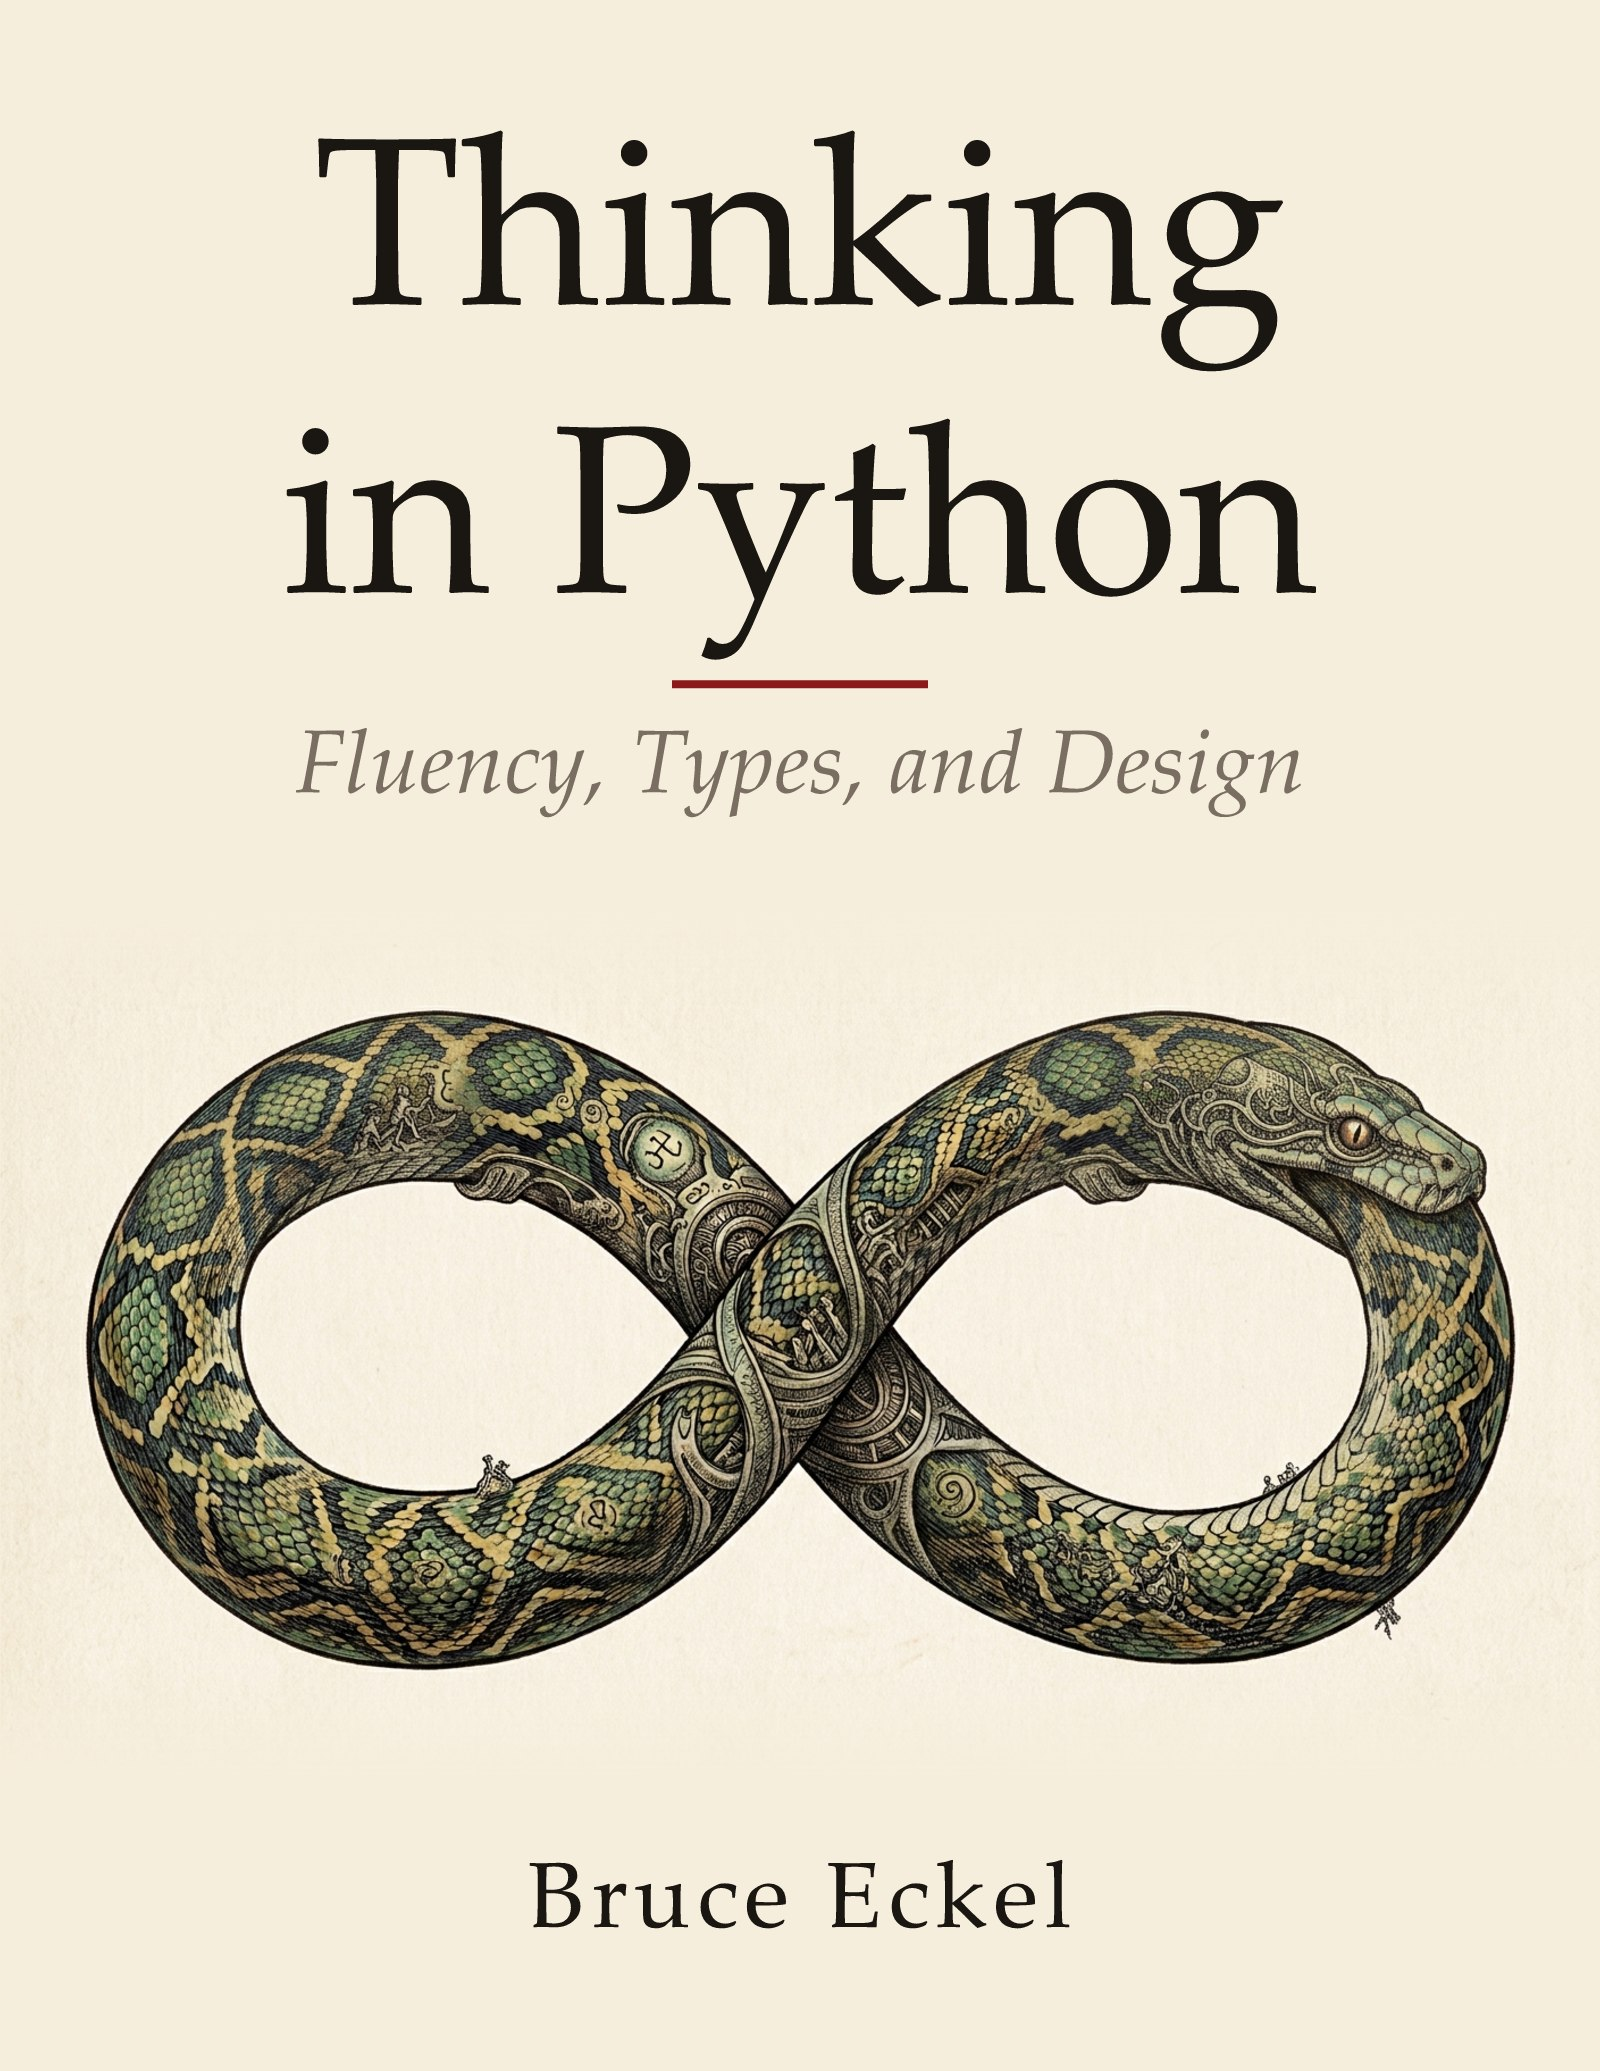
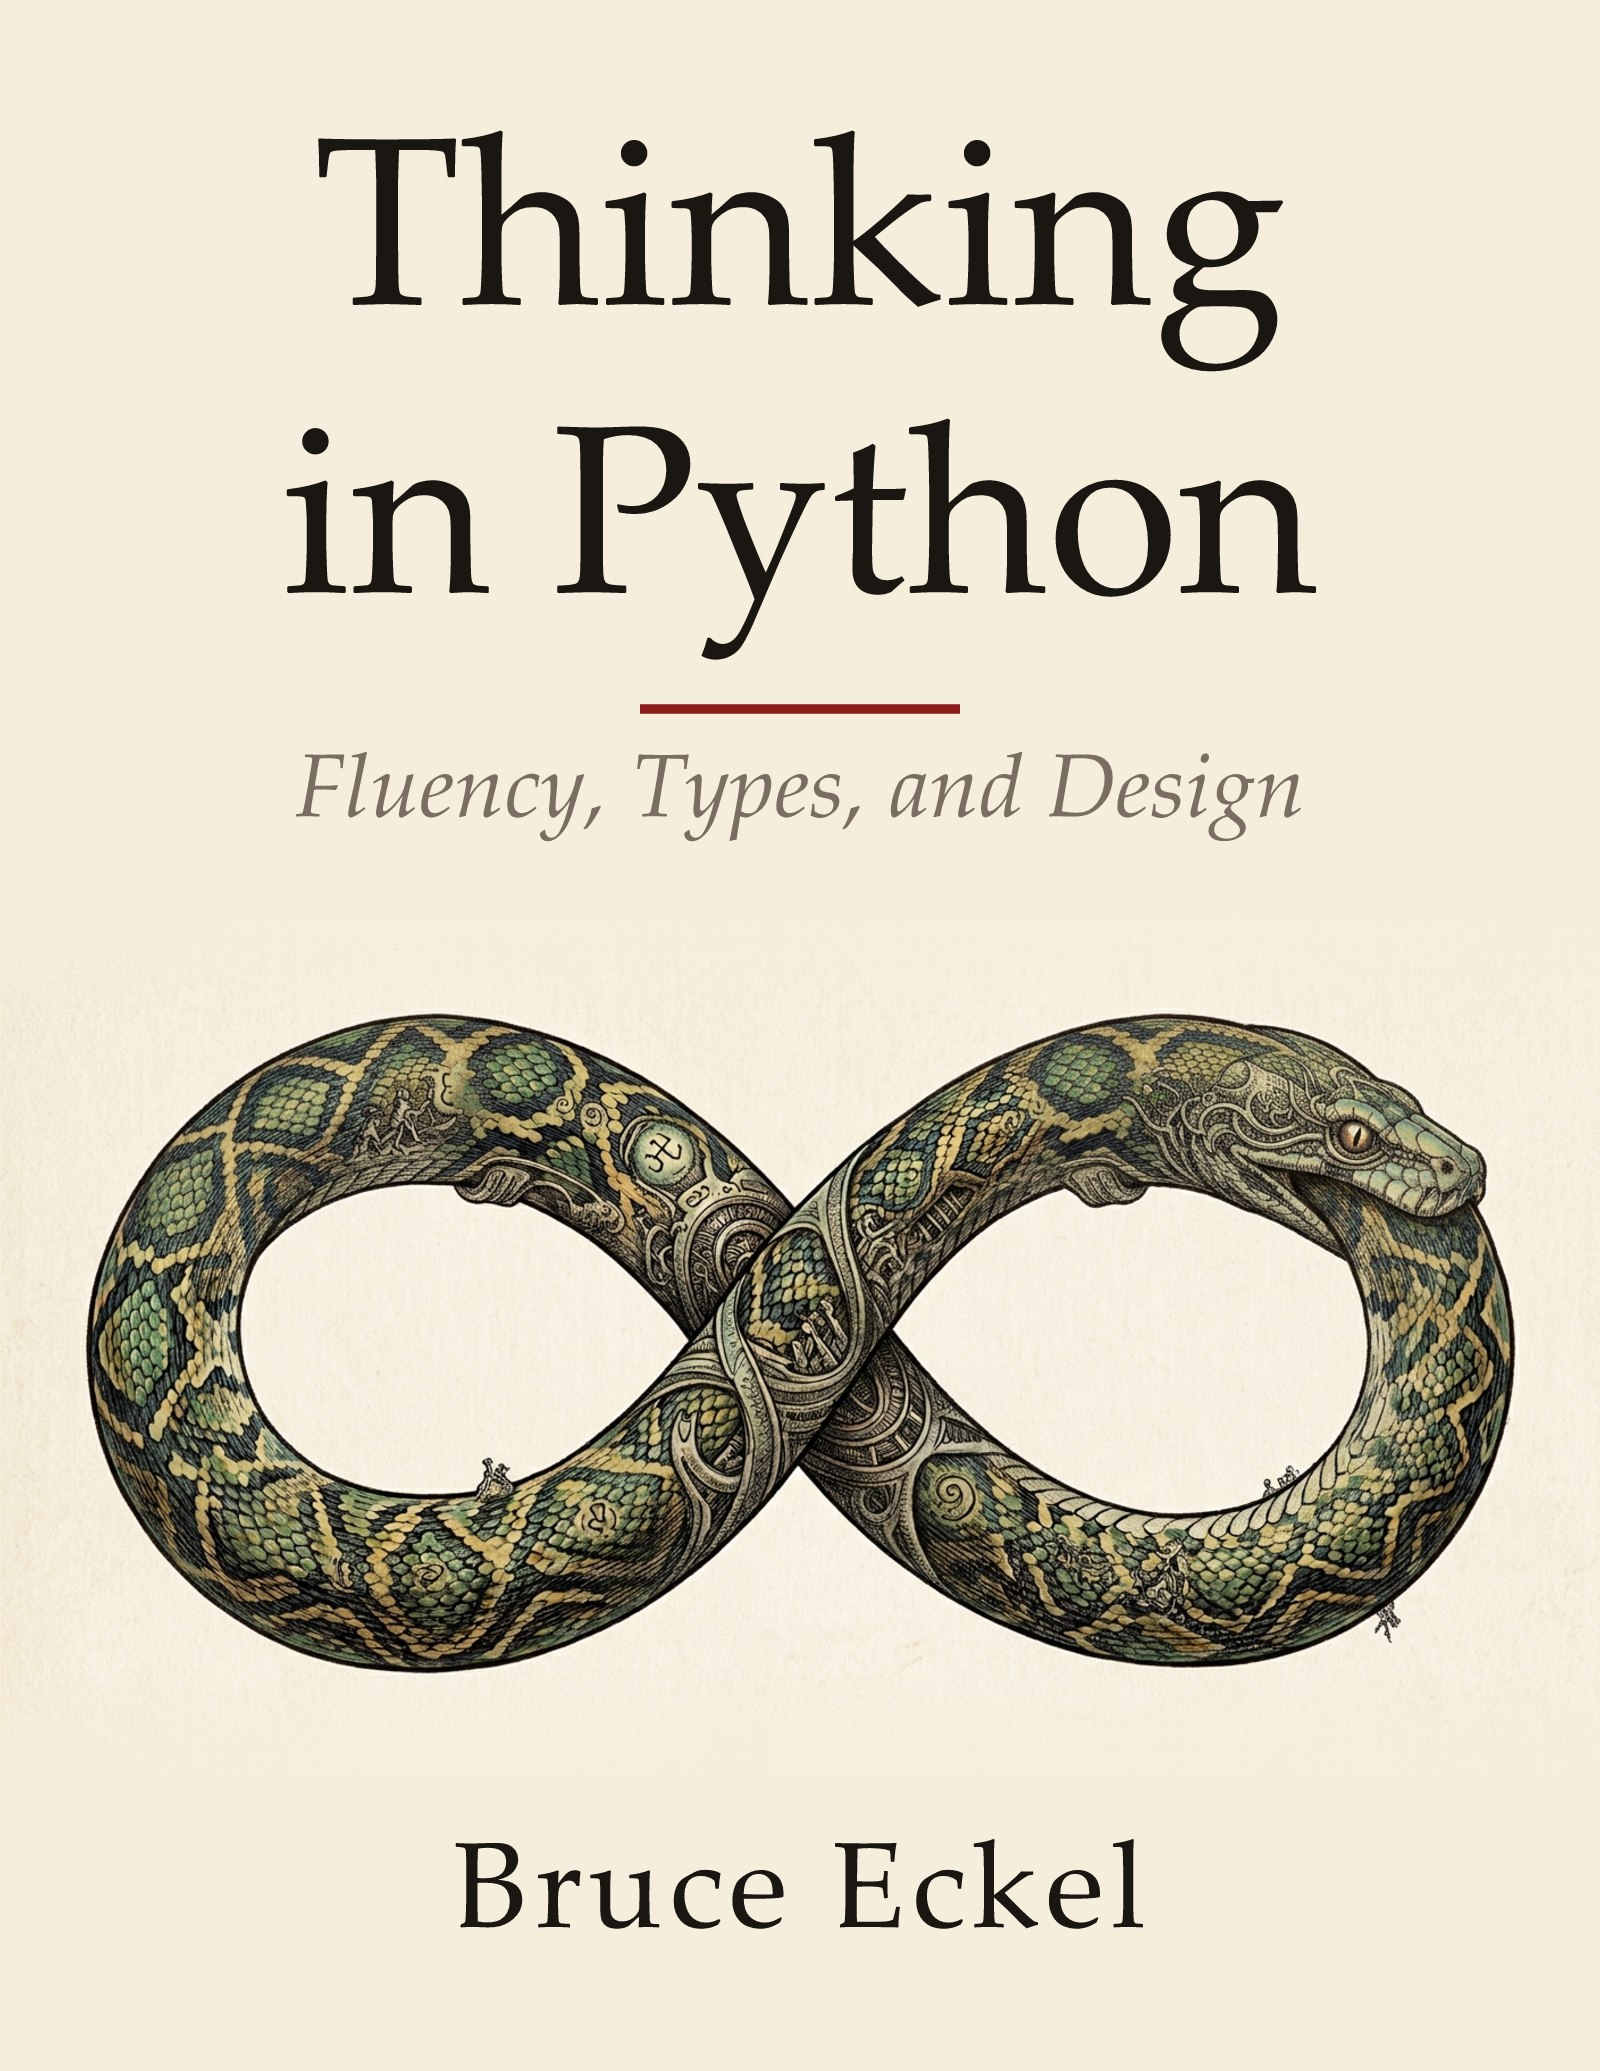
Cover: larger author line, rule centered between title and subtitle
AUTHOR_SIZE 58 -> 76 (about half the title) so the name outranks the
subtitle instead of matching its size. Rule moved from 425 to 440 and
widened to 200x6 so it divides the title from the subtitle rather than
crowding the descender of "Python"; subtitle follows to 510.

diff --git a/tools/make_cover.py b/tools/make_cover.py
@@ -94,12 +94,19 @@ ART_FILES = ("cover-color.jpg", "cover-eink.jpg",
 TITLE_SIZE = 150
 TITLE_1_Y = 190
 TITLE_2_Y = 370
-RULE_Y = 425
+# The rule sits midway between the descender of "Python" (about
+# 407) and the subtitle's cap line, so it divides the two rather
+# than hanging off the title; at 425 it crowded the descender.
+RULE_Y = 440
+RULE_W = 200
 SUBTITLE_SIZE = 56
-SUBTITLE_Y = 495
+SUBTITLE_Y = 510
 # Where the type block ends and the art may begin.
 TYPE_BOTTOM = SUBTITLE_Y + 20
-AUTHOR_SIZE = 58
+# About half the title. At 58 the author line matched the subtitle
+# size and read as a caption under the art; on a cover the name
+# ranks above the subtitle.
+AUTHOR_SIZE = 76
 AUTHOR_MARGIN = 90
 
 
@@ -123,7 +130,7 @@ def titles_svg(h: int, ink: str = INK,
   <text x="{W / 2}" y="{TITLE_2_Y}" text-anchor="middle"
         font-family="{TITLE_FONT}" font-size="{TITLE_SIZE}"
         fill="{ink}">in Python</text>
-  <rect x="{W / 2 - 80}" y="{RULE_Y}" width="160" height="5"
+  <rect x="{W / 2 - RULE_W / 2}" y="{RULE_Y}" width="{RULE_W}" height="6"
         fill="{accent}"/>
   <text x="{W / 2}" y="{SUBTITLE_Y}" text-anchor="middle"
         font-family="{TITLE_FONT}" font-size="{SUBTITLE_SIZE}"
